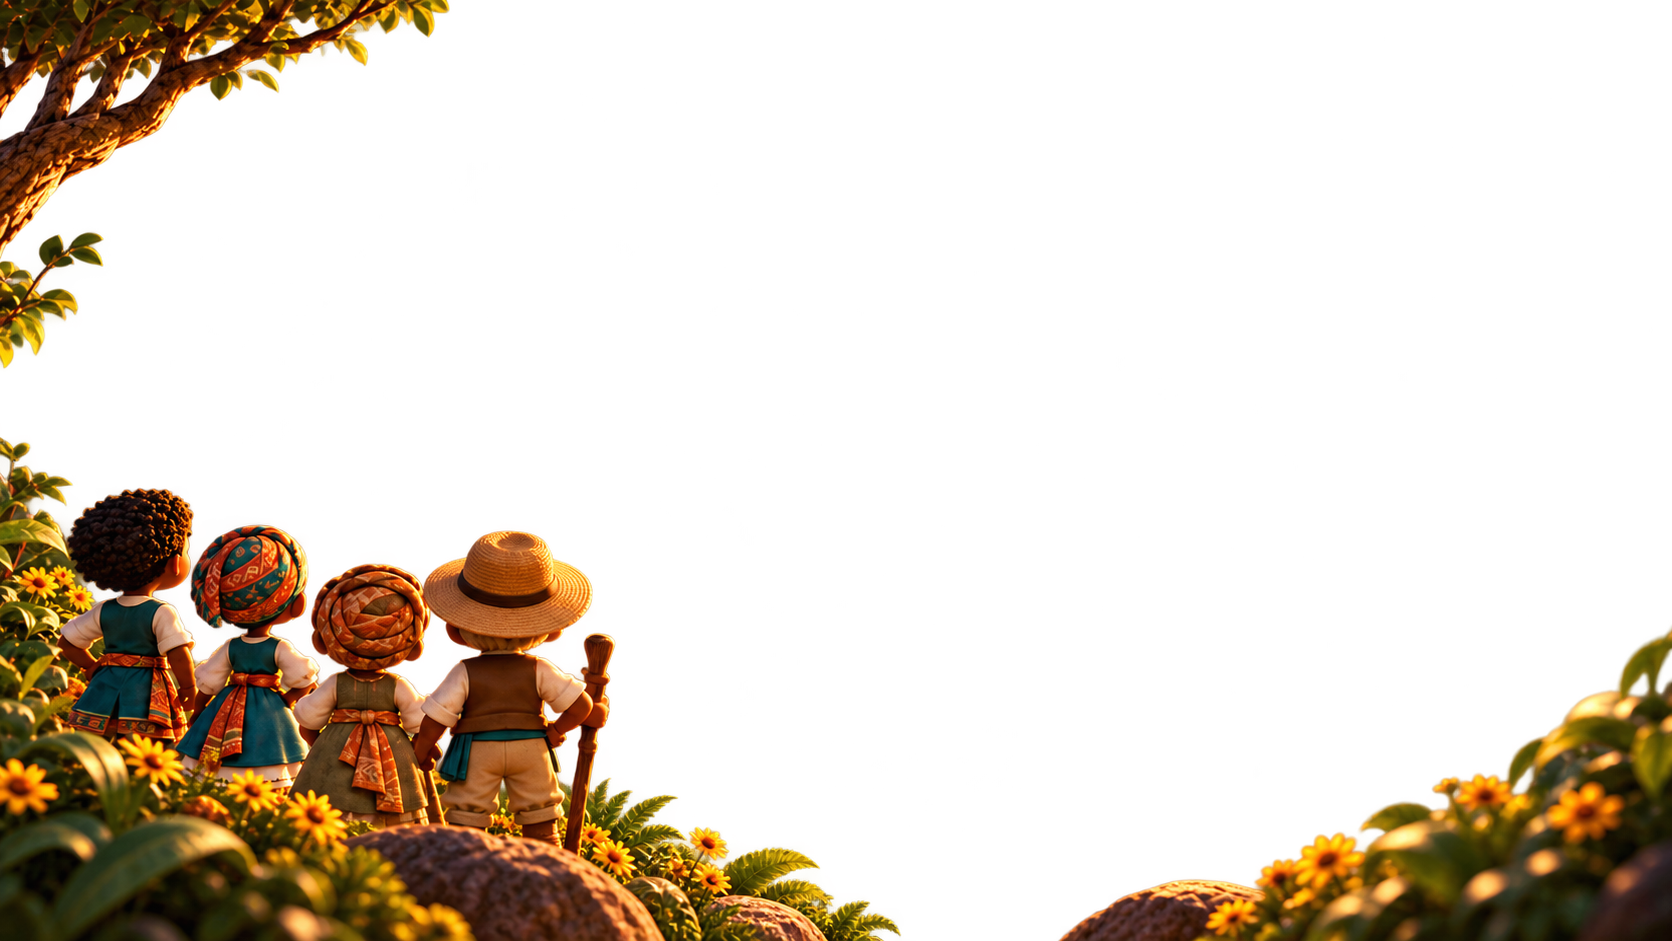
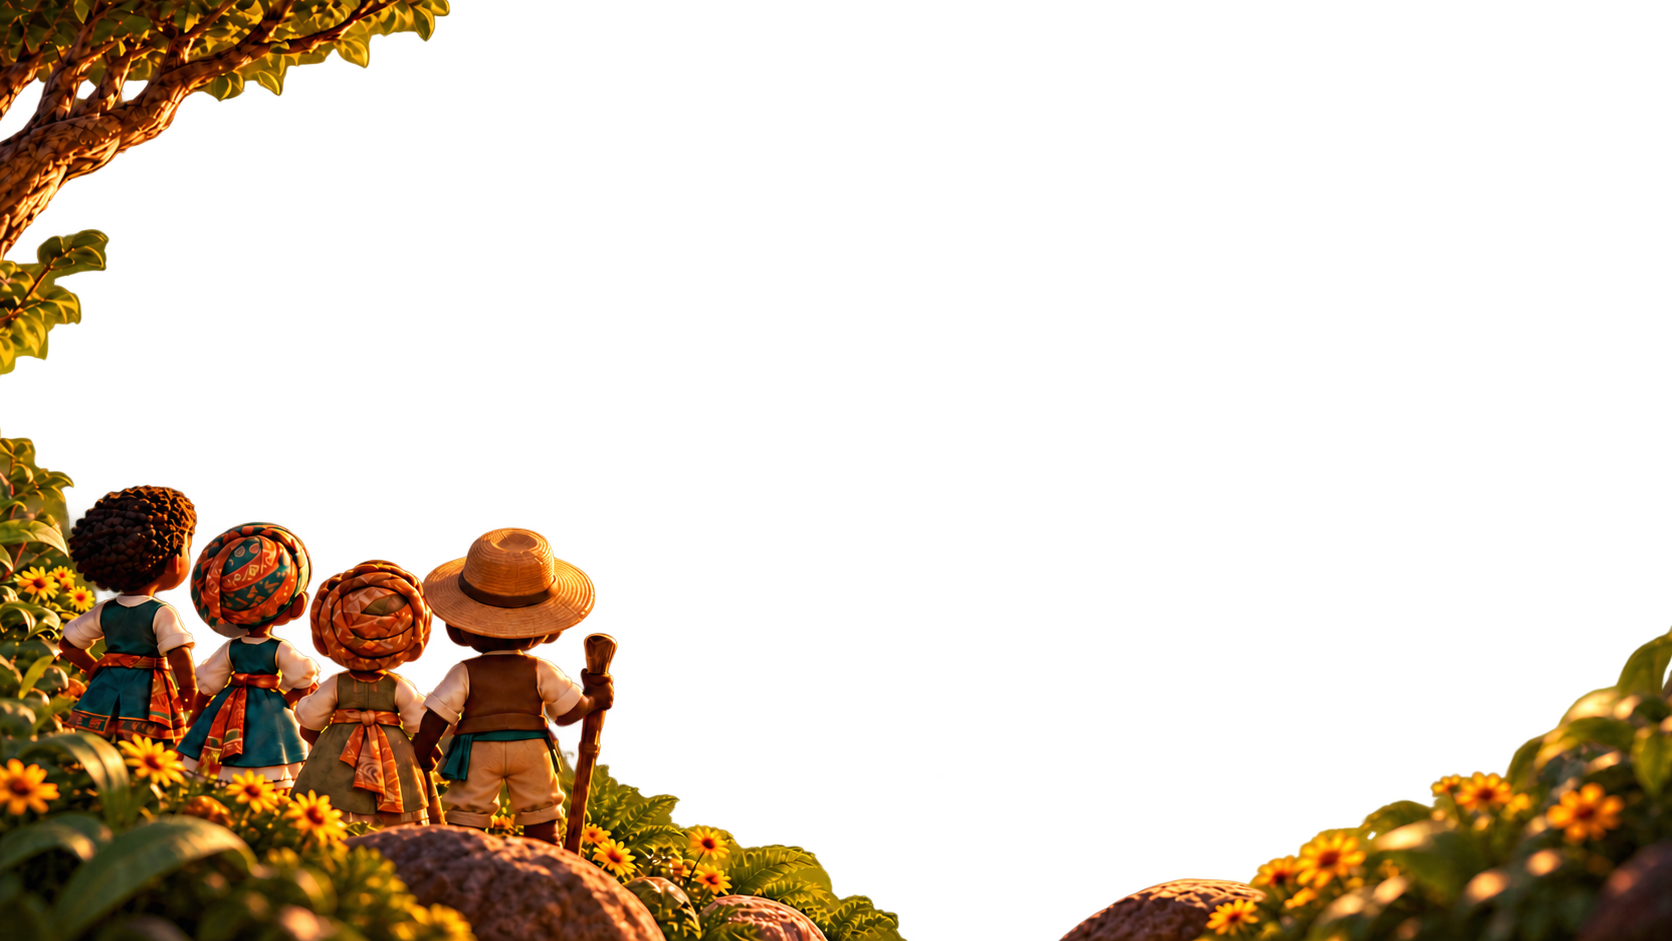
fix(menu): correct farmer staff hand anatomy and skin tone

diff --git a/docs/qa/menu-hand-fix-20261028/README.md b/docs/qa/menu-hand-fix-20261028/README.md
@@ -1,0 +1,9 @@
+# Menu farmer hand correction — 2026-10-28
+
+Replaced sanctuary-foreground-v1.png with an imagegen edit fixing the disconnected staff hand and matching the exposed right hand/forearm to the farmer's dark brown skin. Built-in imagegen edit mode, transparent background. No runtime code changed.
+
+Final prompt: Precise local color correction: only change the rightmost farmer's exposed right forearm and staff-gripping hand to the same dark brown skin as his left arm; preserve sunset highlights, anatomical continuity, white sleeve, staff, poses, other characters, vegetation, rocks, composition and transparent areas.
+
+Source generation: exec-7f3f9791-d89d-491b-9b15-4793d2c54231.png (following anatomical repair exec-84fec2c4-ca6c-4c52-9e95-d3fea287e80b.png).
+
+Validation: check-menu-layered.mjs against local Vite 5220; wide, portrait and ultrawide menu/options/return completed with all controls visible. Only reported errors were missing favicon.ico (404). wide-home.png inspected in the real renderer: connected dark-skinned arm and hand. No performance claim; asset-only correction.
